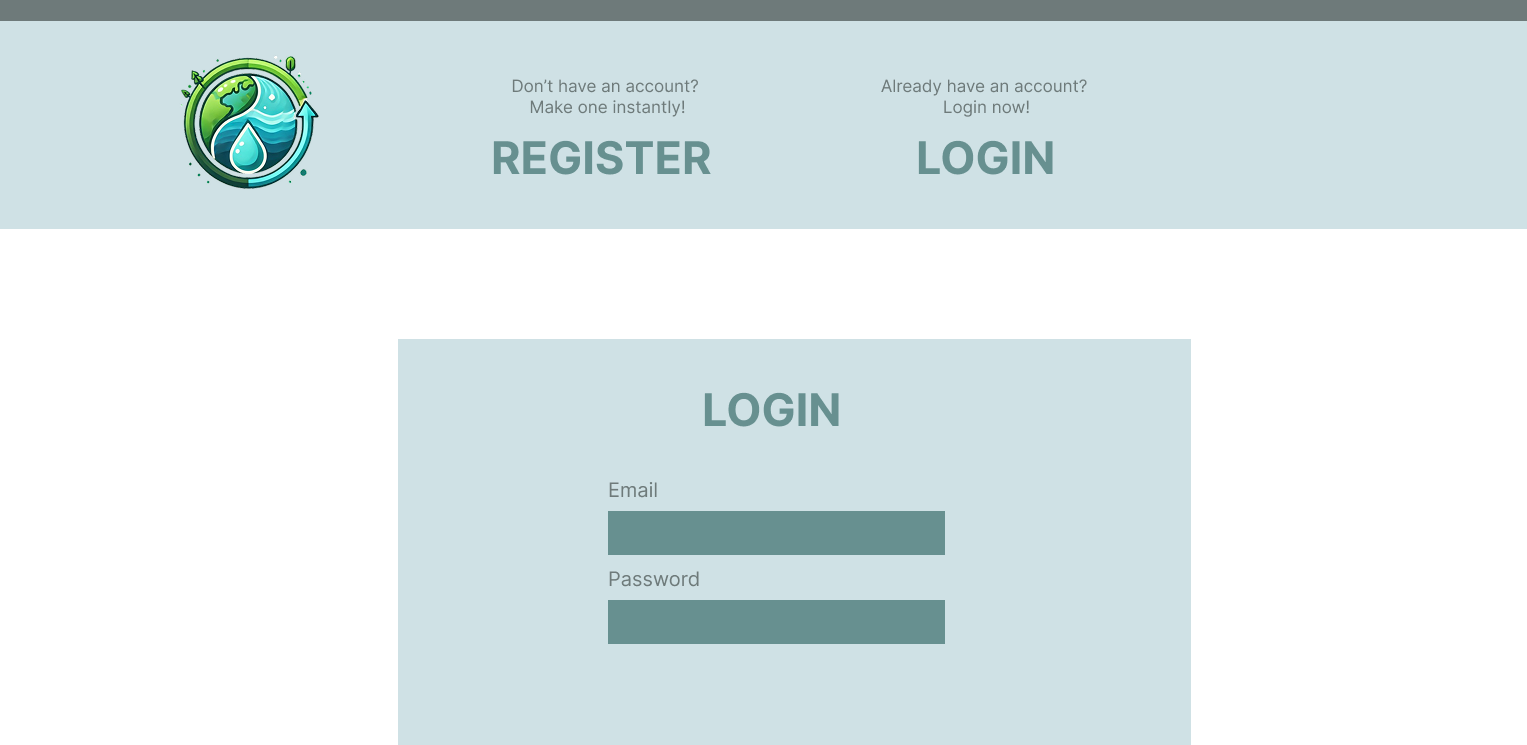
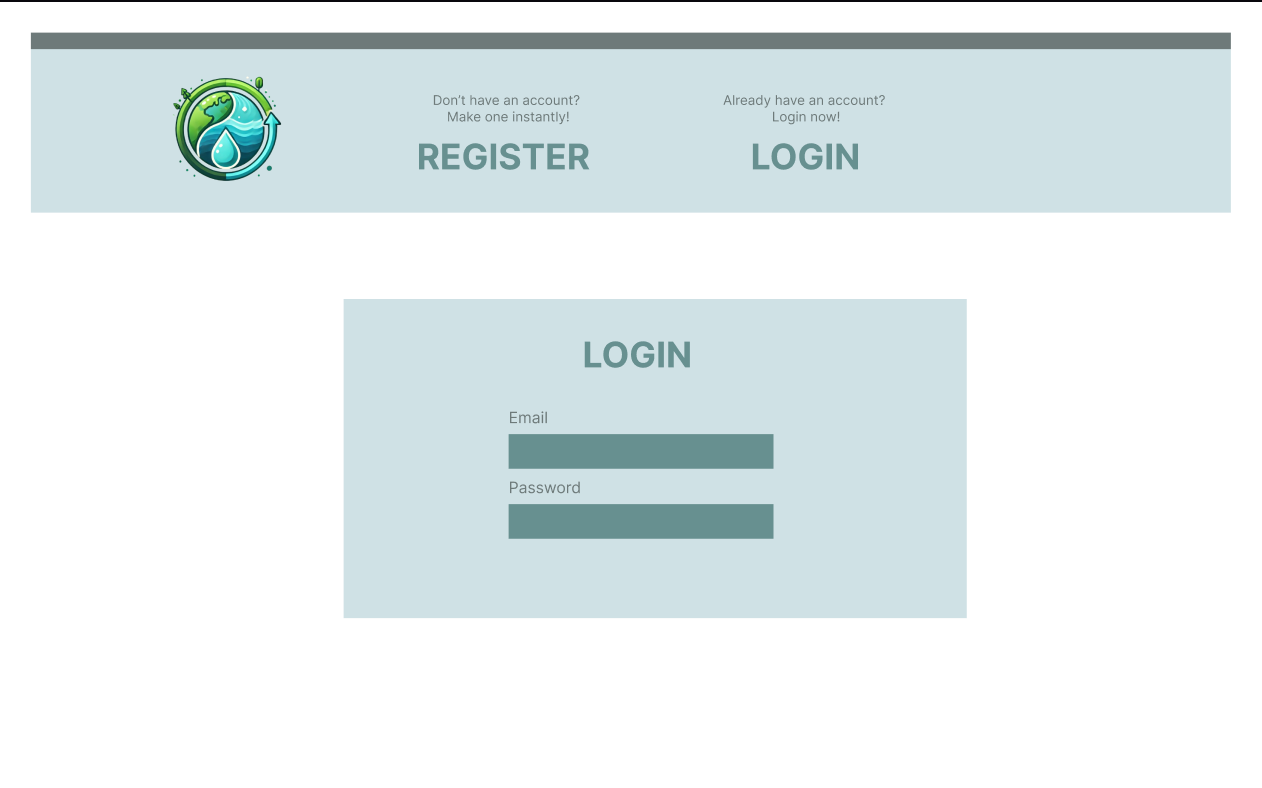
Add login.js design

diff --git a/highfive/src/App.js b/highfive/src/App.js
@@ -1,14 +1,235 @@
-import React from 'react';
-import './App.css'; // Import a CSS file for styling
+import React, { useState } from 'react';
+import { BrowserRouter as Router, Routes, Route, Link } from 'react-router-dom';
+import styled from 'styled-components';
+import axios from 'axios'; 
+import Register from './Register';
+import Challenges from './Challenges';
+import BulgariaMap from './map';
+
+const Container = styled.div`
+  background-color: rgb(255, 255, 255);
+  padding: 20px;
+  display: flex;
+  flex-direction: column;
+  align-items: center;
+  justify-content: center; /* Center content vertically */
+  min-height: 100vh;
+`;
+
+const TopBar = styled.div`
+  width: 100%;
+  height: 50px; /* Adjust height as needed */
+  background-color: #679090; /* Example background color */
+  display: flex;
+  justify-content: center;
+  align-items: center;
+  color: white;
+  font-weight: bold;
+`;
+
+const AuthLinks = styled.div`
+  display: flex;
+  justify-content: space-between;
+  width: 50%;
+  margin-bottom: 20px;
+  color: #679090;
+  text-decoration: none;
+`;
+
+const AuthLink = styled(Link)`
+  color: #679090;
+  text-decoration: none;
+  font-weight: bold;
+  &:hover {
+    text-decoration: underline;
+  }
+`;
+
+const FormContainer = styled.div`
+  background-color: #CFE1E5;
+  padding: 40px; /* Increase padding to expand the background */
+  border-radius: 8px;
+  width: 400px; /* Expand the background width */
+  text-align: center;
+  display: flex;
+  justify-content: center;
+  align-items: center;
+`;
+
+const FormContent = styled.div`
+  width: 300px; /* Keep the form itself the same size */
+`;
+
+const Title = styled.h2`
+  color: #679090;
+  margin-bottom: 20px;
+`;
+
+const Input = styled.input`
+  width: 100%;
+  padding: 10px;
+  margin: 10px 0;
+  background-color: #6E7A7A;
+  border: none;
+  border-radius: 4px;
+  color: white;
+  &::placeholder {
+    color: white;
+  }
+`;
+
+const Button = styled.button`
+  width: 100%;
+  padding: 10px;
+  background-color: #679090;
+  color: white;
+  border: none;
+  border-radius: 4px;
+  font-weight: bold;
+  cursor: pointer;
+  margin-left: 9px;
+  &:hover {
+    background-color: #557575;
+  }
+`;
+
+const Header = styled.header`
+  
+  width: 100%;
+  height: 150px; /* Increased height to accommodate the new div */
+  background-color: #cfe1e5;
+  position: fixed;
+  top: 0;
+  left: 0;
+  display: flex;
+  flex-direction: column; /* Stack elements vertically */
+  justify-content: center;
+  align-items: center;
+  padding: 0 20px;
+  box-sizing: border-box;
+`;
+
+const HeaderTop = styled.div`
+  width: 100%;
+  background-color: #679090; /* Example background color */
+  color: white;
+  text-align: center;
+  padding: 10px 0;
+  font-weight: bold;
+`;
+
+const HeaderContent = styled.div`
+  width: 90%; /* Adjust width as needed */
+  display: flex;
+  justify-content: space-between;
+  font-size: 20px;
+`;
+
+const HeaderText = styled.div`
+  text-align: center;
+`;
+
+const HeaderSpan = styled.span`
+  display: block;
+  color: #4a4a4a;
+  font-weight: 500;
+  margin-bottom: 5px;
+`;
+
+const HeaderLink = styled(AuthLink)`
+  color: #  color: #679090;
+  text-decoration: none;
+  font-weight: bold;
+  font-size: 42px;
+  &:hover {
+    text-decoration: underline;
+  }
+`;
 
 const App = () => {
+  const [email, setEmail] = useState('');
+  const [password, setPassword] = useState('');
+  const [error, setError] = useState('');
+
+  const handleLogin = async (e) => {
+    e.preventDefault();
+    setError('');
+
+    try {
+      const response = await axios.post('http://localhost:3005/login', {
+        email,
+        password,
+      });
+
+      alert('Login successful!');
+    } catch (err) {
+      if (err.response && err.response.data) {
+        setError(err.response.data.error || 'Login failed');
+      } else {
+        setError('An error occurred. Please try again.');
+      }
+    }
+  };
+
   return (
-    <div className="background-container">
-      <div className="ui-overlay">
-        <h1>Transparent UI</h1>
-        <p>This is a transparent UI element on top of a background image.</p>
-      </div>
-    </div>
+    <Router>
+      <Routes>
+        <Route
+          path="/"
+          element={
+            <Container>
+              
+              <Header>
+               
+                <HeaderContent>
+                <img src="https://media.discordapp.net/attachments/1351242842542178443/1352954923695870023/logo.png?ex=67dfe4f6&is=67de9376&hm=6ea249977282f867eed42b771b13fa796a785f8efb73198d6385c080b43bba8f&=&format=webp&quality=lossless&width=603&height=504" alt="HighFive Logo" style={{ height: '100px' }} />                  
+                  <HeaderText>
+                    <HeaderSpan>Don't have an account? Make one instantly!</HeaderSpan>
+                    <HeaderLink to="/register">REGISTER</HeaderLink>
+                  </HeaderText>
+                  <HeaderText>
+                    <HeaderSpan>Already have an account? Login now!</HeaderSpan>
+                    <HeaderLink to="/">LOGIN</HeaderLink>
+                  </HeaderText>
+                </HeaderContent>
+              </Header>
+              <FormContainer>
+                <FormContent>
+                  <Title>LOGIN</Title>
+                  <form onSubmit={handleLogin}>
+                    <div style={{ marginBottom: '15px', textAlign: 'left' }}>
+                      <label htmlFor="email" style={{ color: '#92A0A2', fontWeight: 'bold' }}>Email</label>
+                      <Input
+                        id="email"
+                        type="email"
+                        value={email}
+                        onChange={(e) => setEmail(e.target.value)}
+                      />
+                    </div>
+                    <div style={{ marginBottom: '15px', textAlign: 'left' }}>
+                      <label htmlFor="password" style={{ color: '#92A0A2', fontWeight: 'bold' }}>Password</label>
+                      <Input
+                        id="password"
+                        type="password"
+                        value={password}
+                        onChange={(e) => setPassword(e.target.value)}
+                      />
+                    </div>
+                    {error && <p style={{ color: 'red' }}>{error}</p>}
+                    <div style={{ textAlign: 'center' }}>
+                      <Button type="submit">submit</Button>
+                    </div>
+                  </form>
+                </FormContent>
+              </FormContainer>
+            </Container>
+          }
+        />
+        <Route path="/register" element={<Register />} />
+        <Route path="/challenges" element={<Challenges />} />
+        <Route path="/map" element={<BulgariaMap />} />
+      </Routes>
+    </Router>
   );
 };
 
